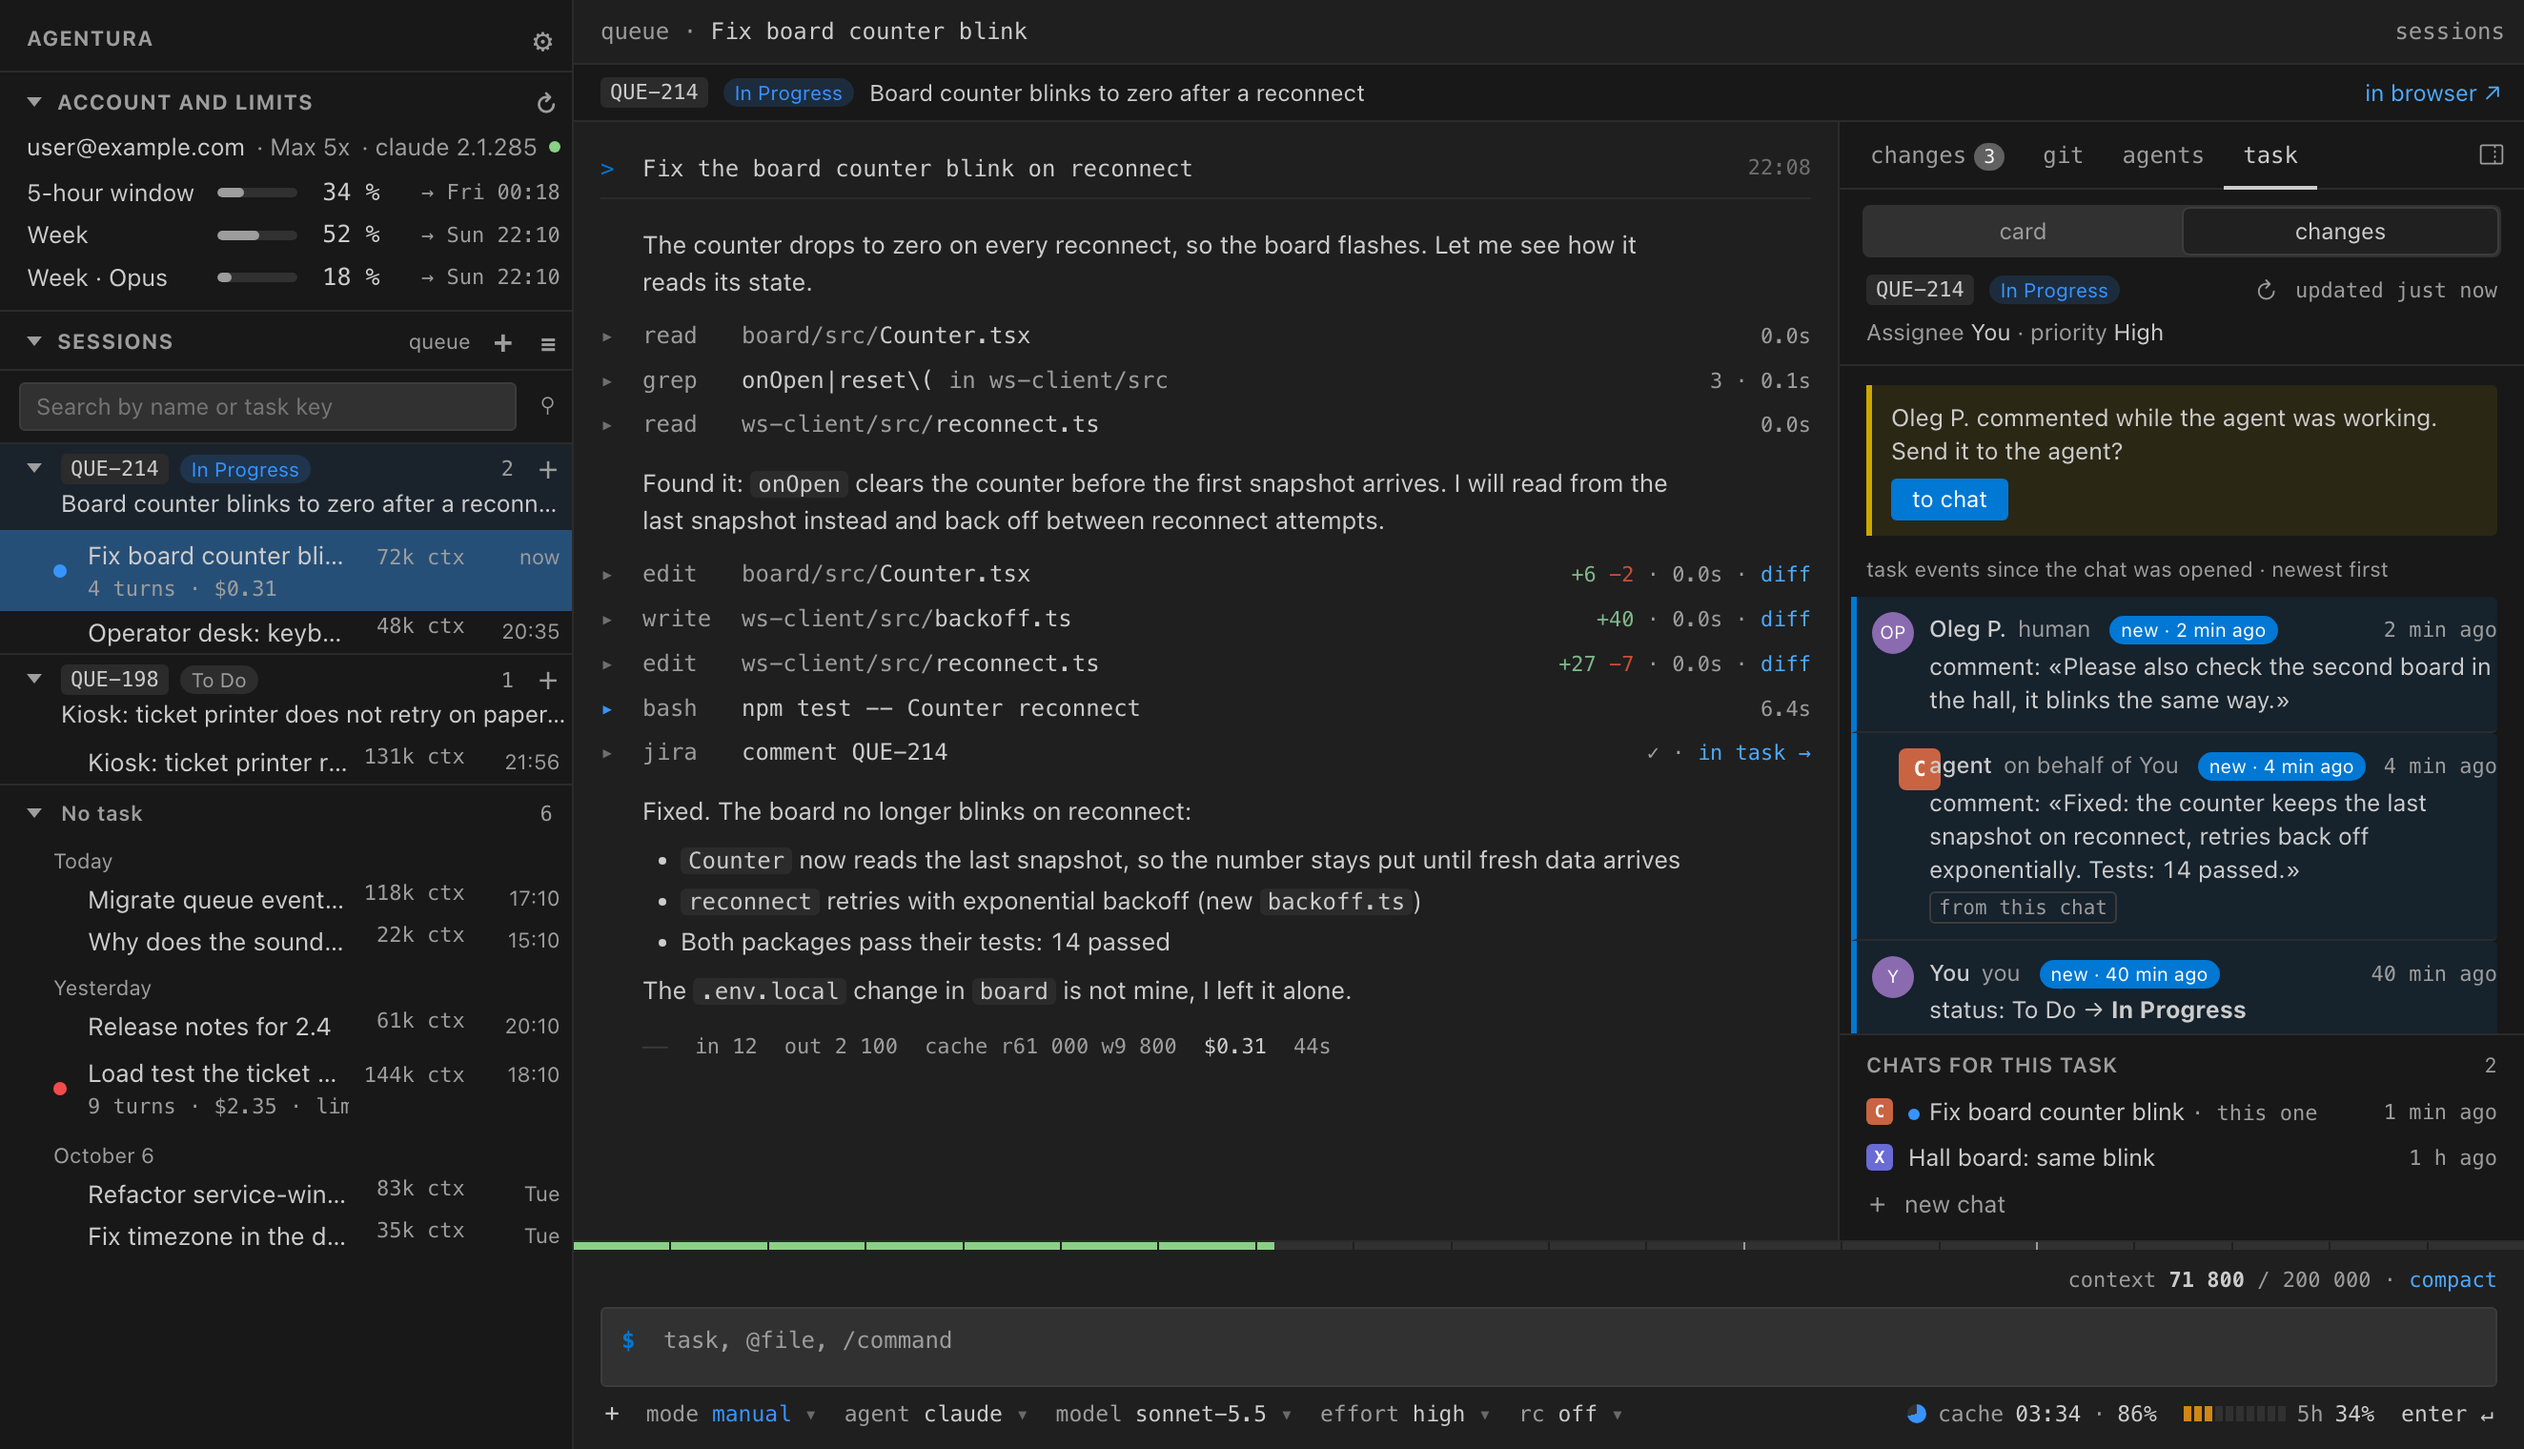
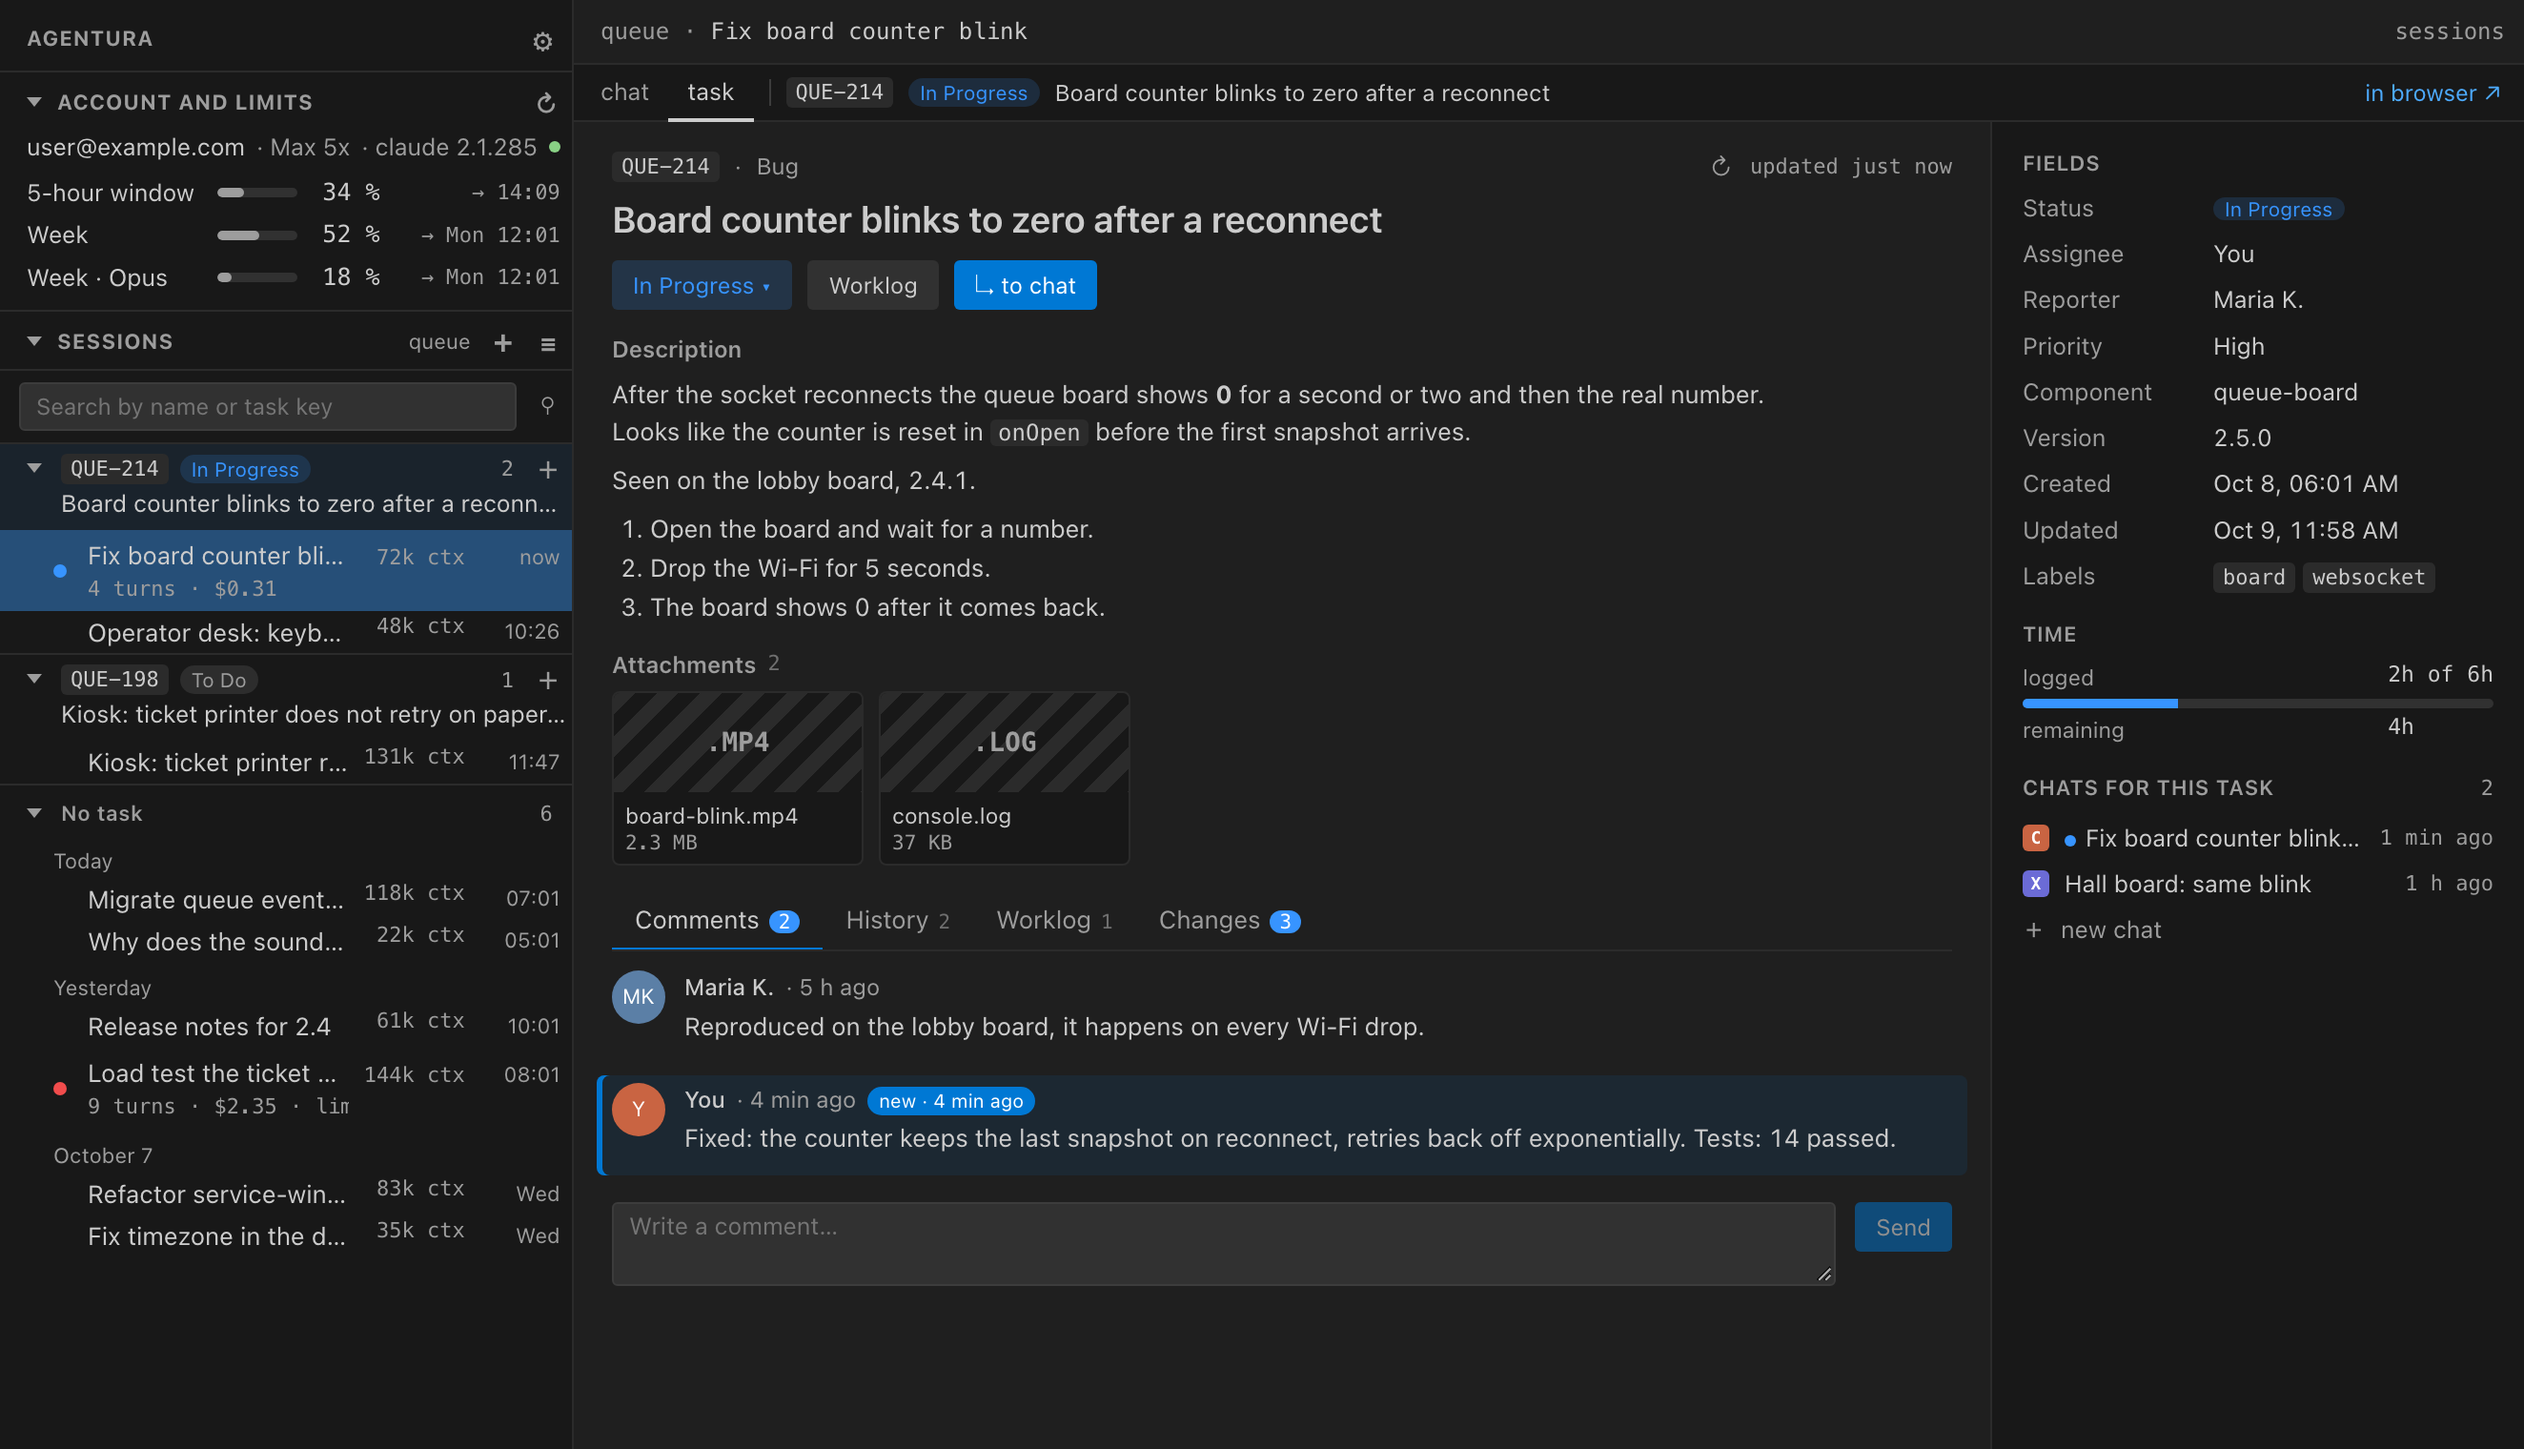
Release 0.10.0: chat | task tabs

diff --git a/README.md b/README.md
@@ -14,8 +14,9 @@ engine as Claude Code, through your installed `claude` and its login. Codex CLI 
 
 Personal project, not on the Marketplace. Install it from a `.vsix` (see [Install](#install)).
 
-> **New in 0.9 — Jira tasks.** Chats grouped by Jira issue; a "task" tab beside the chat with the issue card and a
-> live change feed (the agent's comment shows up right away); one tab per task with its chats inside; Jira connected
+> **New in 0.10 — a "task" tab beside the chat.** A chat on a Jira issue gets "chat | task" tabs: the full issue card
+> (description, fields, comments, history, worklogs) and the live change feed, and you can change status, comment and
+> log work right there. Since 0.9: chats grouped by Jira issue; one tab per task with its chats inside; Jira connected
 > in Agentura or through [Jiraffe](https://github.com/fosteev/jiraffe) 0.8; and Claude can comment, change status and
 > log work on the issue, asking before anything but a short comment. See [Jira tasks](#jira-tasks).
 
@@ -30,7 +31,7 @@ Personal project, not on the Marketplace. Install it from a `.vsix` (see [Instal
   in the native diff.
 - **Remote Control.** Keep driving a Claude session from claude.ai/code or the Claude mobile app: `rc` under the
   input box or `/rc`. See [Remote Control](#remote-control).
-- **Jira tasks.** Chats grouped by Jira issue, a task card and change feed beside the chat, and Claude can comment,
+- **Jira tasks.** Chats grouped by Jira issue, a "task" tab with the full card and change feed beside the chat, and Claude can comment,
   change status and log work on the issue. See [Jira tasks](#jira-tasks).
 - **Sidebar.** The project's sessions: search, resume, rename. Account and limits are shown above the list — for every
   installed engine (Claude, Codex, Antigravity), in one of five layouts.
@@ -171,10 +172,13 @@ Start one with "Agentura: Chat for Issue…" (a key or a link), "Open in Agentur
 - **Source.** `agentura.jira.source`: `auto` (default), `jiraffe`, `own`, `off`. Own connections are made with
   "Agentura: Connect Jira…" (Data Center or Cloud; the token goes to SecretStorage, per workspace). The Jiraffe
   integration needs Jiraffe **0.8.0**. Everything is on the "Integrations" settings page.
-- **Task strip and "task" tab.** A strip with the issue above the feed, and a "task" tab in the right panel: the card
-  (description, comments, attachments, the task's chats) and "changes" (status, comments, worklogs; the agent's
-  comments are highlighted, a comment from a person made during a turn shows a "send to agent?" notice).
-  `agentura.tasks.card`: `panel`, `split`, `strip`.
+- **Task strip and "chat | task" tabs.** A strip with the issue above the feed carries the tabs. "Task" shows the
+  whole card: description, attachments, fields, time and the task's chats, with sub-tabs Comments, History, Worklog
+  and Changes (status, comments, worklogs; the agent's comments are highlighted, a comment from a person made during a
+  turn shows a "send to agent?" notice). Status, a comment and a worklog are written from the card on your behalf,
+  without a confirmation dialog; "to chat" attaches the task as a file. While "task" is open, "chat" shows a spinner
+  or a dot when the agent works or waits for you. `agentura.tasks.card`: `tab` (default) or `split` (Jiraffe's card
+  beside the chat, Jiraffe source only); the old `panel` and `strip` read as `tab`.
 - **A tab per task.** `agentura.tasks.tab=task` keeps one editor tab per task with its chats as inner tabs.
 - **Agent tools (Claude).** The in-process MCP server `agentura_jira` gives `comment`, `transition` and `worklog` on
   the chat's task, on your behalf. A short comment on that task is posted without asking; a status change, a worklog,
@@ -186,7 +190,7 @@ Start one with "Agentura: Chat for Issue…" (a key or a link), "Open in Agentur
   "Open in Agentura") puts it into the prompt box and you send it; a person's comment only when you move it to the chat. The card and the change
   feed are polled by the extension and are not sent anywhere else.
 
-![Jira tasks: a task group in the sidebar, the strip and the "task" tab with the agent's comment](docs/images/jira-tasks.png)
+![Jira tasks: a task group in the sidebar, the "chat | task" tabs with the full issue card](docs/images/jira-tasks.png)
 
 ## Remote Control
 

diff --git a/docs/roadmap/19-jira-tasks.md b/docs/roadmap/19-jira-tasks.md
@@ -98,7 +98,7 @@ Jiraffe (`/Users/fost/Projects/jiraffe`, 0.7.0, ветка main, VS Code Marketp
    остаётся для Agentura 0.8.0. Нет команды `agentura.taskSessions` (старая Agentura) — поведение как сейчас.
 8. **Режим задачи** чата = сессия входит в группу. Заголовок вкладки «NEWMFC-1482 · <название чата>», над лентой
    полоска задачи (ключ, статус-пилюля, заголовок, «в Jiraffe ↗» / «в браузере ↗» для своего подключения).
-9. **Настройки-виды** (каждая — enum, превью-карточки в настройках, команда quick pick):
+9. **Настройки-виды** *(заменено roadmap 20)* (каждая — enum, превью-карточки в настройках, команда quick pick):
    - `agentura.tasks.sidebar`: `groups` (А — группы в списке сессий, по умолчанию) | `section` (В — секция «Задачи»
      над «Сессиями», в списке сессий метка ключа справа). Раздел «Боковая панель».
    - `agentura.tasks.tab`: `chat` (вкладка на чат, по умолчанию) | `task` (Б — вкладка на задачу, чаты внутренними
@@ -106,7 +106,7 @@ Jiraffe (`/Users/fost/Projects/jiraffe`, 0.7.0, ветка main, VS Code Marketp
    - `agentura.tasks.card`: `panel` (Г/режим задачи — вкладка «задача» правой панели, по умолчанию) | `split`
      (В — карточка Jiraffe слева, чат справа; только при источнике Jiraffe, иначе работает как `panel`, в превью
      пометка «только с Jiraffe») | `strip` (только полоска). Раздел «Внешний вид».
-10. **Вкладка «задача»** правой панели (`changes | git | agents | task`, только у чатов по задаче и при
+10. **Вкладка «задача»** *(заменено roadmap 20)* правой панели (`changes | git | agents | task`, только у чатов по задаче и при
     `tasks.card` ≠ `strip`): переключатель «карточка | изменения»; карточка — шапка (ключ, статус, исполнитель,
     приоритет, ↻, «обновлено N с назад»), описание 4 строки + «ещё», вложения чипами, комментарии (новые снизу),
     закреплённый внизу блок «Чаты по задаче» (чаты группы, текущий отмечен, «＋ новый чат»). Изменения — события

diff --git a/CHANGELOG.md b/CHANGELOG.md
@@ -1,5 +1,24 @@
 # Changelog
 
+## 0.10.0 — 2026-10-09
+
+### Added
+
+- **"Chat | task" tabs.** A chat on a Jira issue gets tabs in the task strip. "Task" is the full issue card in the
+  width of the chat tab (the chat keeps its scroll and draft): description and comments as sanitized HTML, fields, time,
+  attachments as file tiles and the task's chats, with sub-tabs Comments, History, Worklog and Changes. Links open
+  in the browser (http, https, mailto only).
+- **Writing from the card.** Change status (transitions that need extra fields are disabled), post a comment
+  (Ctrl/Cmd+Enter) or log work, on your behalf and without a confirmation dialog; needs your own connection or
+  Jiraffe with API v2. "To chat" attaches the task as a `<KEY>.md` file.
+- **Indicators on "chat".** While "task" is open, the chat tab shows a spinner with the number of new feed entries
+  when a turn is running, and a dot with a toast when the agent waits for a permission, answer or plan.
+
+### Changed
+
+- `agentura.tasks.card` is now `tab` (default) or `split`; the old `panel` and `strip` read as `tab`. The right
+  panel no longer has a "task" tab.
+
 ## 0.9.0 — 2026-10-08
 
 ### Added

diff --git a/docs/roadmap/20-task-tab.md b/docs/roadmap/20-task-tab.md
@@ -165,10 +165,10 @@ Agentura (Preact + `@preact/signals`):
 
 ### 3. Релиз 0.10.0 — **sonnet, medium**, после 2
 
-- [ ] Скриншоты README (`run.mjs tasks`): кадры «чат» с вкладками и «задача» широкая; обновить README/README.ru
+- [x] Скриншоты README (`run.mjs tasks`): кадры «чат» с вкладками и «задача» широкая; обновить README/README.ru
       (раздел про задачи Jira — одна-две фразы и картинки).
-- [ ] `CHANGELOG.md` (англ.), версия 0.10.0 в `package.json`, `npm run package` → `agentura-0.10.0.vsix`.
-- [ ] В `19-jira-tasks.md` у решений 9–10 пометка «заменено roadmap 20».
+- [x] `CHANGELOG.md` (англ.), версия 0.10.0 в `package.json`, `npm run package` → `agentura-0.10.0.vsix`.
+- [x] В `19-jira-tasks.md` у решений 9–10 пометка «заменено roadmap 20».
 
 **Готово, когда:** `npm run check` зелёный, vsix собран, README показывает новую вкладку.
 
